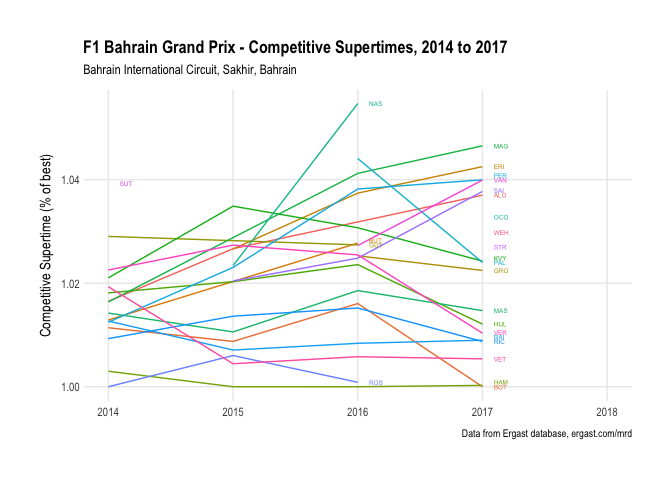
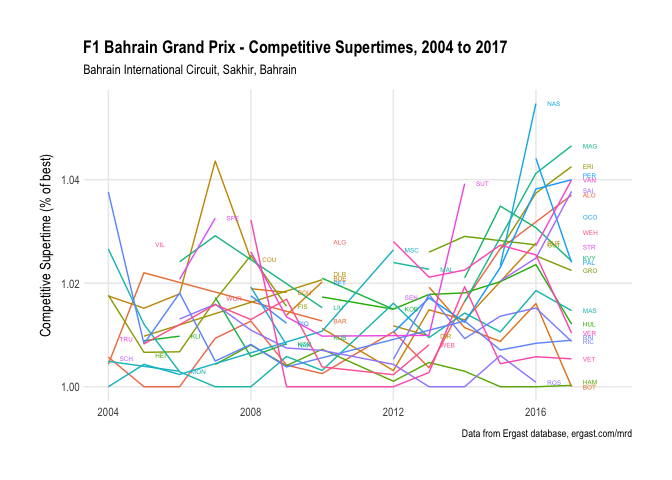
Extend reporting period for BAH circuit competitive supertimes

diff --git a/circuit/circuit_supertimes.md b/circuit/circuit_supertimes.md
@@ -18,19 +18,19 @@ We can also produce driver performance metrics based on the competitive supertim
 
 | code |  avstime | races |
 | :--- | -------: | ----: |
-| HAM  | 1.000813 |     4 |
-| VET  | 1.008735 |     4 |
-| BOT  | 1.009054 |     4 |
-| RAI  | 1.009291 |     4 |
-| RIC  | 1.011716 |     4 |
-| HUL  | 1.018525 |     4 |
-| VER  | 1.021426 |     4 |
-| PER  | 1.028418 |     4 |
-| ALO  | 1.026724 |     3 |
+| HAM  | 1.003266 |    10 |
+| VET  | 1.007769 |     9 |
+| ALO  | 1.010742 |    12 |
+| BOT  | 1.011088 |     5 |
+| RIC  | 1.011662 |     6 |
+| RAI  | 1.011808 |    10 |
+| HUL  | 1.017749 |     7 |
+| VER  | 1.022486 |     6 |
+| PER  | 1.023558 |     6 |
+| GRO  | 1.023875 |     2 |
+| STR  | 1.027025 |     1 |
 | SAI  | 1.027665 |     3 |
+| OCO  | 1.032838 |     1 |
+| VAN  | 1.033600 |     2 |
 | MAG  | 1.034711 |     3 |
 | ERI  | 1.035507 |     3 |
-| GRO  | 1.023875 |     2 |
-| VAN  | 1.033600 |     2 |
-| STR  | 1.027025 |     1 |
-| OCO  | 1.032838 |     1 |
